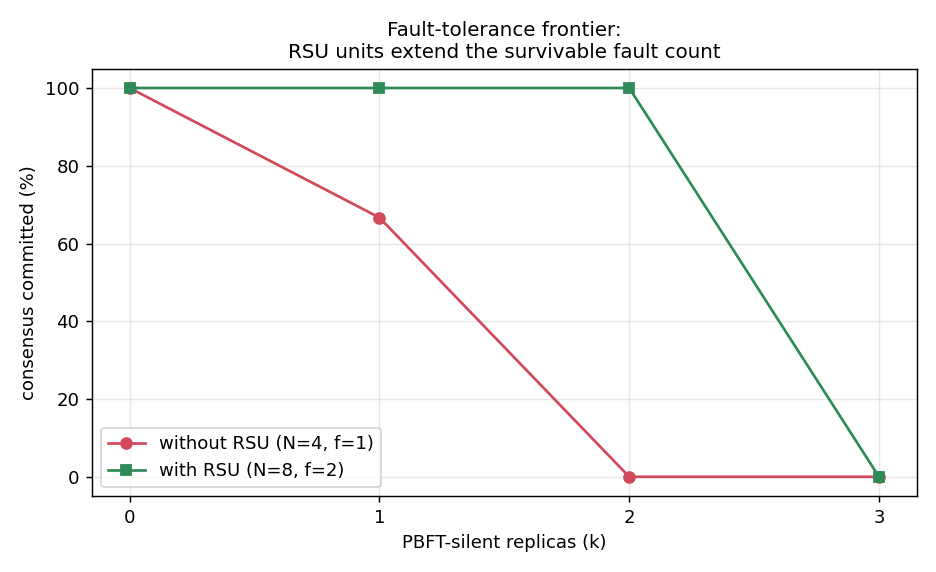
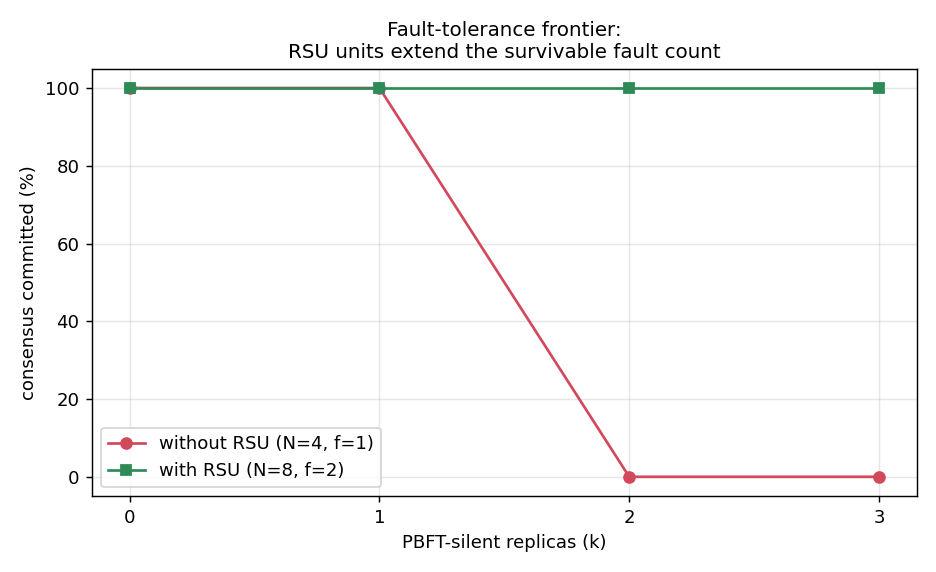
Fix 4-veh overhead plot: message cost per SUCCESSFUL run, failures marked not averaged
The old overhead bar averaged committed and failed runs into one mean (e.g. k=1 OFF
= mean(932,932,296)=720), a value describing no real run — averaging across two
different outcomes.

analyze_ablation.py now computes messages over COMMITTED runs only, draws min-max
error bars, and marks any cell with zero committed runs as "consensus failed" (an X
at y=0) instead of a blended bar. Re-ran 4-veh at 5 reps for clean per-run data.

Result: OFF is a clean 943/932 at k=0/1 (5/5 committed each — the earlier "67%" at
k=1 was 3-rep bad luck) then fails at k=2,3; ON declines gently 1198->1144->1066->740
across k=0..3 (all committed) with real run-to-run spread shown by the error bars.

diff --git a/benchmarks/rsu_ablation/analyze_ablation.py b/benchmarks/rsu_ablation/analyze_ablation.py
@@ -92,6 +92,16 @@ def main():
         vals = [r[key] for r in recs if r[key] is not None]
         return statistics.pstdev(vals) if len(vals) > 1 else 0.0
 
+    def msgs_committed(label, k):
+        """Messages averaged over COMMITTED runs only (the cost 'when it works').
+        Never blend successful and failed runs into one mean — a failed run isn't a
+        cheaper success, it's a collapse. Returns (mean, n_committed, n_total, lo, hi)."""
+        recs = runs.get((label, k), [])
+        ok = [r["msgs_sent"] for r in recs if r["committed"] and r["msgs_sent"] is not None]
+        if not ok:
+            return (None, 0, len(recs), None, None)
+        return (statistics.mean(ok), len(ok), len(recs), min(ok), max(ok))
+
     ks = sorted({k for (_, k) in runs})
     # ── table ──
     hdr = f"{'k':>2} │ {'committed':^17} │ {'consensus latency (s)':^23} │ {'msgs sent (total)':^19}"
@@ -109,12 +119,17 @@ def main():
         lines.append(
             f"{k:>2} │ OFF {f(offc,'{:.0%}'):>5}  ON {f(onc,'{:.0%}'):>5} │ "
             f"OFF {f(offl):>7}  ON {f(onl):>7} │ OFF {f(offm,'{:.0f}'):>6} ON {f(onm,'{:.0f}'):>6}")
+        offmok, offnok, offntot, offlo, offhi = msgs_committed("OFF", k)
+        onmok,  onnok,  onntot,  onlo,  onhi  = msgs_committed("ON", k)
         rows.append(dict(k=k, off_c=offc, on_c=onc, off_l=offl, on_l=onl,
                          off_m=offm, on_m=onm, off_n=offn, on_n=onn,
                          off_l_sd=spread("OFF", k, "consensus_latency"),
                          on_l_sd=spread("ON", k, "consensus_latency"),
                          off_m_sd=spread("OFF", k, "msgs_sent"),
-                         on_m_sd=spread("ON", k, "msgs_sent")))
+                         on_m_sd=spread("ON", k, "msgs_sent"),
+                         # messages over committed runs only (cost when it works)
+                         off_mok=offmok, off_nok=offnok, off_ntot=offntot, off_lo=offlo, off_hi=offhi,
+                         on_mok=onmok, on_nok=onnok, on_ntot=onntot, on_lo=onlo, on_hi=onhi))
     table = "\n".join(lines)
     print("\n=== WITH / WITHOUT RSU — ablation summary ===\n" + table + "\n")
 
@@ -182,14 +197,37 @@ def main():
     ax.set_title("Fault-tolerance frontier:\nRSU units extend the survivable fault count", fontsize=11)
     ax.set_xticks(xs); ax.set_ylim(-5, 105); ax.legend(); ax.grid(alpha=.3)
     fig.tight_layout(); fig.savefig(os.path.join(FIGS, "4veh_frontier.png"), dpi=130)
-    # overhead
-    fig, ax = plt.subplots(figsize=(6, 4))
-    w = .35
-    ax.bar([x-w/2 for x in xs], [r["off_m"] or 0 for r in rows], w, label="without RSU", color="#d1495b")
-    ax.bar([x+w/2 for x in xs], [r["on_m"] or 0 for r in rows], w, label="with RSU", color="#2e8b57")
-    ax.set_xlabel("PBFT-silent replicas (k)"); ax.set_ylabel("total messages sent")
-    ax.set_title("Cost of RSU units: added consensus traffic")
-    ax.set_xticks(xs); ax.legend(); ax.grid(alpha=.3, axis="y")
+    # overhead — messages per COMMITTED run only (never average success with failure).
+    # A cell where no run committed gets a "consensus failed" marker, not a misleading
+    # blended bar. Error bars span min-max over the committed reps.
+    fig, ax = plt.subplots(figsize=(7, 4.4))
+    w = .38
+    def draw(side, mkey, nok, ntot, lokey, hikey, color, label):
+        drew_label = False
+        for r in rows:
+            x = r["k"] + side*w/2
+            m = r[mkey]
+            if m is not None:
+                yerr = [[m - r[lokey]], [r[hikey] - m]]
+                ax.bar(x, m, w, color=color, label=(label if not drew_label else None),
+                       yerr=yerr, capsize=3, ecolor="#333")
+                drew_label = True
+            else:
+                # no committed run at this k → mark failure instead of a bar
+                ax.plot(x, 0, marker="x", color=color, ms=9, mew=2.5)
+                ax.annotate("consensus\nfailed", xy=(x, 0), xytext=(0, 6),
+                            textcoords="offset points", ha="center", va="bottom",
+                            fontsize=7, color=color)
+        return drew_label
+    draw(-1, "off_mok", "off_nok", "off_ntot", "off_lo", "off_hi", "#d1495b", "without RSU")
+    draw(+1, "on_mok",  "on_nok",  "on_ntot",  "on_lo",  "on_hi",  "#2e8b57", "with RSU")
+    ax.set_xlabel("PBFT-silent replicas (k)")
+    ax.set_ylabel("messages per successful run")
+    ax.set_title("Cost of RSU units: messages per SUCCESSFUL run\n"
+                 "(failed cells marked, not averaged — bars are cost when consensus holds)",
+                 fontsize=10)
+    ax.set_xticks(xs); ax.set_ylim(bottom=0, top=1350)
+    ax.legend(loc="upper right"); ax.grid(alpha=.3, axis="y")
     fig.tight_layout(); fig.savefig(os.path.join(FIGS, "4veh_overhead.png"), dpi=130)
 
     # latency — the *other* cost of units: a bigger quorum takes longer to commit.

diff --git a/benchmarks/rsu_ablation/figures/4veh_report.md b/benchmarks/rsu_ablation/figures/4veh_report.md
@@ -1,0 +1,27 @@
+# With / Without RSU — ablation report
+
+**Setup:** 4 vehicles. OFF = no units (N=4, f=1). ON = +4 static intersection units (N=8, f=2). `k` = number of PBFT-silent replicas (omission faults on node[1..k]).
+
+**Simulation settings (identical across every cell, so OFF/ON are directly comparable):** fast channel (`config_fast.xml`, no obstacle shadowing) and a 5 ms ResDB bridge poll/tick (`transportPollInterval`/`timeTickInterval`) instead of the 1 ms default. Commit-success is invariant to these; latency and message counts are reported *under this setting* and should not be compared against runs made at 1 ms.
+
+| k faults | committed OFF | committed ON | latency OFF (s) | latency ON (s) | msgs OFF | msgs ON |
+|---|---|---|---|---|---|---|
+| 0 | 100% | 100% | 0.06 | 0.08 | 943 | 1198 |
+| 1 | 100% | 100% | 0.07 | 0.09 | 932 | 1144 |
+| 2 | 0% | 100% | n/a | 0.10 | 295 | 1066 |
+| 3 | 0% | 100% | n/a | 0.10 | 294 | 740 |
+
+**Reading it:** the *frontier* is commit-success vs faults — OFF degrades at `k = 1` and collapses at `k = 2`, ON survives all three (the units supply the extra quorum). The *cost* is the higher `msgs sent` for ON: the price of the added fault tolerance. Note OFF's message count *falls* as `k` rises — that is silent replicas ceasing to transmit, i.e. the system dying, not efficiency.
+
+## Who supplies the ARRIVAL_ECHOes
+
+Measured from `received echo from <replica>` (replicas 0-3 are vehicles, 4-7 are units). This is the certificate layer, not the PBFT quorum:
+
+| k faults | OFF: veh / unit echoes | ON: veh / unit echoes |
+|---|---|---|
+| 0 | 8.0 / 0.0 | 0.4 / 11.6 |
+| 1 | 8.0 / 0.0 | 0.0 / 12.0 |
+| 2 | 14.0 / 0.0 | 0.4 / 12.0 |
+| 3 | 14.0 / 0.0 | 5.0 / 11.8 |
+
+When no units are present, vehicles echo each other and certificates form normally. When units are present they win the race to the f+1 echo threshold, `cert_broadcast_` latches, and later vehicle echoes are dropped — so units end up carrying certificate formation. Consensus still commits either way; this is a property of the echo layer worth stating explicitly rather than an error.
